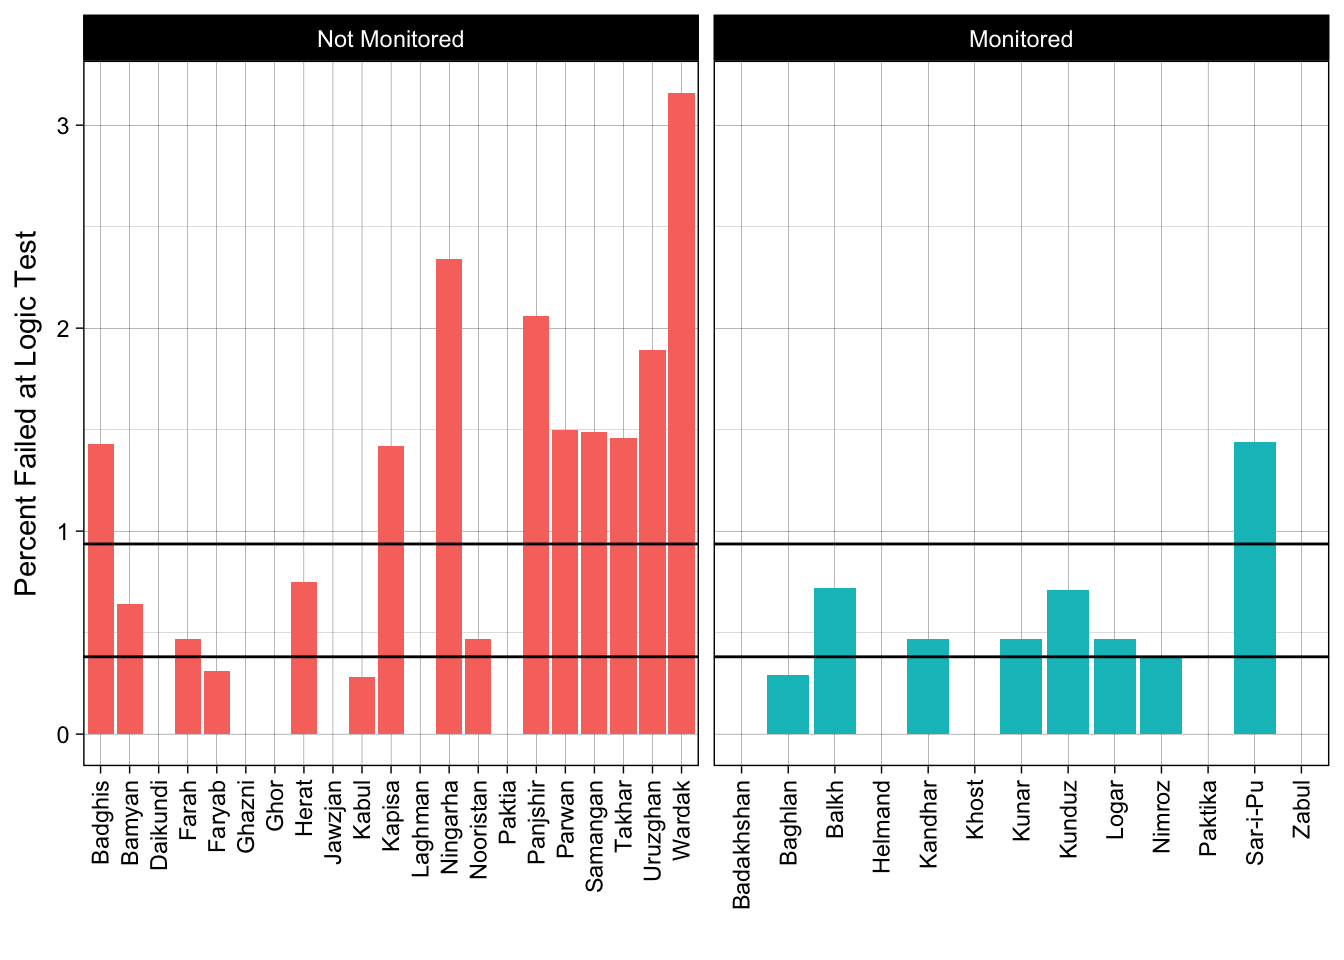
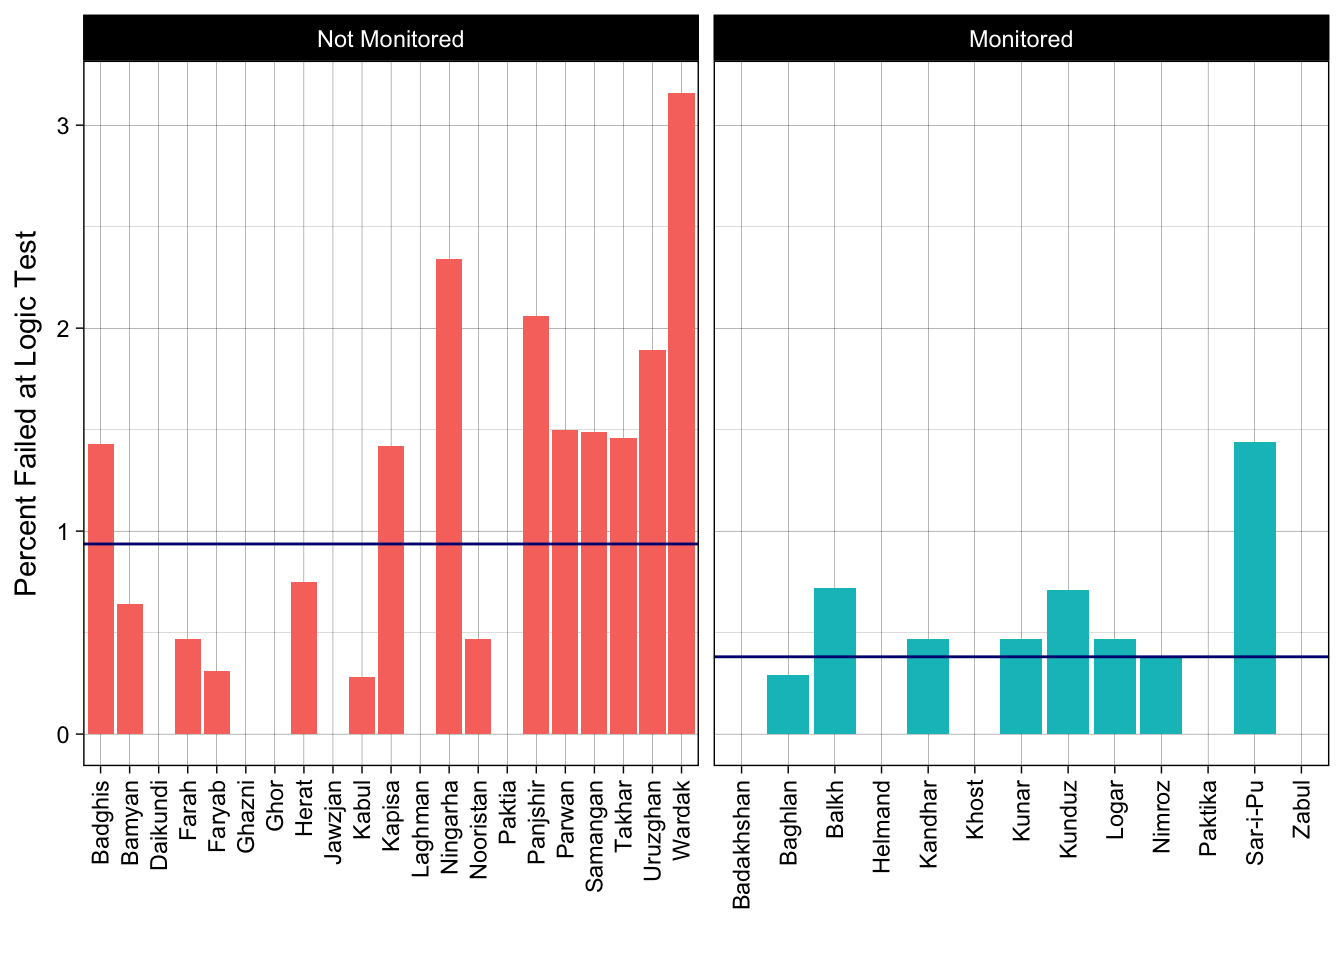
update selection of provinces for SAP monitoring post

Changed region(s): [[0.5312, 0.5625, 0.9688, 0.5938], [0.0625, 0.6562, 0.5, 0.6875], [0.0625, 0.5625, 0.5, 0.5938]]

diff --git a/public/2018/06/10/selection-of-provinces-for-monitoring-in-sap-2018/index.html b/public/2018/06/10/selection-of-provinces-for-monitoring-in-sap-2018/index.html
@@ -59,7 +59,7 @@
 
   <article class="article">
     
-    <span class="article-duration">3 min read</span>
+    <span class="article-duration">4 min read</span>
     
 
     <h1 class="article-title">Selection of Provinces for Monitoring in SAP 2018</h1>
@@ -85,20 +85,14 @@
 </div>
 <div id="analysis" class="section level1">
 <h1>Analysis</h1>
-<pre><code>## Classes &#39;tbl_df&#39;, &#39;tbl&#39; and &#39;data.frame&#39;:    34 obs. of  5 variables:
-##  $ prov.                    : chr  &quot;Badakhshan&quot; &quot;Badghis&quot; &quot;Baghlan&quot; &quot;Balkh&quot; ...
-##  $ failures                 : chr  &quot;0&quot; &quot;3&quot; &quot;1&quot; &quot;3&quot; ...
-##  $ n                        : chr  &quot;216&quot; &quot;210&quot; &quot;341&quot; &quot;415&quot; ...
-##  $ sayara                   : chr  &quot;1&quot; &quot;0&quot; &quot;1&quot; &quot;1&quot; ...
-##  $ proportion of LT failures: chr  &quot;0&quot; &quot;0.014285714&quot; &quot;0.002932551&quot; &quot;0.007228916&quot; ...</code></pre>
-<p>The logic test results are aggregated at the provincial level at this analysis. In addition to the failtures, we look at the provincial sample size and whether the province was monitored or not (by Sayara). The following table shows a snippet of the data used in this section of analysis.</p>
+<p>The logic test results are aggregated at the provincial level for this analysis. In addition to the failtures, we look at the provincial sample size and whether the province was monitored or not (by Sayara). The following table shows part of the data that is used in this analysis.</p>
 <pre class="r"><code>knitr::kable(head(lt))</code></pre>
 <table>
 <thead>
 <tr class="header">
 <th align="left">Provinces</th>
-<th align="left">Logic Test Failures</th>
-<th align="left">Sample Size</th>
+<th align="right">Logic Test Failures</th>
+<th align="right">Sample Size</th>
 <th align="left">Province Monitored</th>
 <th align="right">Percent Failed at Logic Test</th>
 </tr>
@@ -106,51 +100,74 @@
 <tbody>
 <tr class="odd">
 <td align="left">Badakhshan</td>
-<td align="left">0</td>
-<td align="left">216</td>
+<td align="right">0</td>
+<td align="right">216</td>
 <td align="left">Monitored</td>
 <td align="right">0.00</td>
 </tr>
 <tr class="even">
 <td align="left">Badghis</td>
-<td align="left">3</td>
-<td align="left">210</td>
+<td align="right">3</td>
+<td align="right">210</td>
 <td align="left">Not Monitored</td>
 <td align="right">1.43</td>
 </tr>
 <tr class="odd">
 <td align="left">Baghlan</td>
-<td align="left">1</td>
-<td align="left">341</td>
+<td align="right">1</td>
+<td align="right">341</td>
 <td align="left">Monitored</td>
 <td align="right">0.29</td>
 </tr>
 <tr class="even">
 <td align="left">Balkh</td>
-<td align="left">3</td>
-<td align="left">415</td>
+<td align="right">3</td>
+<td align="right">415</td>
 <td align="left">Monitored</td>
 <td align="right">0.72</td>
 </tr>
 <tr class="odd">
 <td align="left">Bamyan</td>
-<td align="left">2</td>
-<td align="left">312</td>
+<td align="right">2</td>
+<td align="right">312</td>
 <td align="left">Not Monitored</td>
 <td align="right">0.64</td>
 </tr>
 <tr class="even">
 <td align="left">Daikundi</td>
-<td align="left">0</td>
-<td align="left">216</td>
+<td align="right">0</td>
+<td align="right">216</td>
 <td align="left">Not Monitored</td>
 <td align="right">0.00</td>
 </tr>
 </tbody>
 </table>
-<pre class="r"><code>failure &lt;- group_by(lt, `Province Monitored`) %&gt;% summarise(mean_failure = mean(`Percent Failed at Logic Test`)) %&gt;% spread(`Province Monitored`, mean_failure)</code></pre>
-<p>Looking at the logic test failure rates by province, and disaggregated by whether the provinces are monitored or not, it becomes evident that the monitored provinces have lower rates on average. It is notworthy that monitored provinces were chosen to be monitored because of their bad performance in the previous wave of the survey. Therefore, it is possible that the imrpovement in data quality as inferred from lower logic test failures are because of the monitoring of the fieldwork.</p>
+<p>Looking at the logic test failure rates by province, and disaggregated by whether the provinces are monitored or not, it becomes evident that the monitored provinces have lower rates on average. It is notworthy that monitored provinces were chosen to be monitored because of their bad performance in the previous wave of the survey. Therefore, it is possible that the imrpovement in data quality as inferred from lower logic test failures are because of the monitoring of the fieldwork. In the following graph, the height of the bars indicates the logic test failure rates by province, and the horizontal line indicates the average logic test failure for all provinces in that facet (i.e. monitored or not monitored provinces).</p>
+<pre class="r"><code># calculate the average failure of provinces by monitoring indicator
+failure &lt;- group_by(lt, `Province Monitored`) %&gt;% summarise(mean_failure = mean(`Percent Failed at Logic Test`))
+
+# plot failed percent for each province using column chart. Color columns by monitoring indicator
+ggplot(lt, aes(x = Provinces, y = `Percent Failed at Logic Test`, fill = `Province Monitored`)) + geom_col() + 
+  
+  # separate columns by monitoring indicator. Apply linedraw theme
+  facet_wrap(~`Province Monitored`, scales = &quot;free_x&quot;) + theme_linedraw() + 
+  
+  # modify theme: direction of x-axis labels and remove x-axis title, and remove legend
+  theme(axis.text.x = element_text(angle = 90, vjust = .5, hjust = 1), legend.position = &quot;none&quot;) + labs(x = &quot;&quot;) + 
+  
+  # add horizontal lines that is average failure of provinces by monitoring indicator
+  geom_hline(data = failure, aes(yintercept = mean_failure), col = &quot;navy&quot;)</code></pre>
 <p><img src="/post/2018-06-10-selection-of-provinces-for-monitoring-in-sap-2018_files/figure-html/unnamed-chunk-4-1.png" width="672" /></p>
+<p>Ordering by logic test failure rates, we also observe provinces which were not monitored come up at the top.</p>
+<pre class="r"><code># keep provinces with logic test failures
+filter(lt, `Percent Failed at Logic Test` &gt; 0) %&gt;% 
+  
+  # reorder provinces based on their failure rates
+  mutate(Provinces = fct_reorder(factor(Provinces), `Percent Failed at Logic Test`)) %&gt;% 
+  
+  # plot horizontal
+  ggplot(aes(Provinces, `Percent Failed at Logic Test`, fill = `Province Monitored`)) + geom_col() + coord_flip() + labs(fill = &quot;&quot;) + theme_linedraw() + theme(legend.position = &quot;top&quot;) + geom_vline(xintercept = 10.5, col = &quot;navy&quot;)</code></pre>
+<p><img src="/post/2018-06-10-selection-of-provinces-for-monitoring-in-sap-2018_files/figure-html/unnamed-chunk-5-1.png" width="672" /></p>
 </div>
 
     </div>
@@ -188,9 +205,6 @@
 
 
     
-<script src="/js/math-code.js"></script>
-<script async src="//cdn.bootcss.com/mathjax/2.7.1/MathJax.js?config=TeX-MML-AM_CHTML"></script>
-
 
     
   </body>

diff --git a/content/post/2018-06-10-selection-of-provinces-for-monitoring-in-sap-2018.html b/content/post/2018-06-10-selection-of-provinces-for-monitoring-in-sap-2018.html
@@ -28,20 +28,14 @@ tags:
 </div>
 <div id="analysis" class="section level1">
 <h1>Analysis</h1>
-<pre><code>## Classes &#39;tbl_df&#39;, &#39;tbl&#39; and &#39;data.frame&#39;:    34 obs. of  5 variables:
-##  $ prov.                    : chr  &quot;Badakhshan&quot; &quot;Badghis&quot; &quot;Baghlan&quot; &quot;Balkh&quot; ...
-##  $ failures                 : chr  &quot;0&quot; &quot;3&quot; &quot;1&quot; &quot;3&quot; ...
-##  $ n                        : chr  &quot;216&quot; &quot;210&quot; &quot;341&quot; &quot;415&quot; ...
-##  $ sayara                   : chr  &quot;1&quot; &quot;0&quot; &quot;1&quot; &quot;1&quot; ...
-##  $ proportion of LT failures: chr  &quot;0&quot; &quot;0.014285714&quot; &quot;0.002932551&quot; &quot;0.007228916&quot; ...</code></pre>
-<p>The logic test results are aggregated at the provincial level at this analysis. In addition to the failtures, we look at the provincial sample size and whether the province was monitored or not (by Sayara). The following table shows a snippet of the data used in this section of analysis.</p>
+<p>The logic test results are aggregated at the provincial level for this analysis. In addition to the failtures, we look at the provincial sample size and whether the province was monitored or not (by Sayara). The following table shows part of the data that is used in this analysis.</p>
 <pre class="r"><code>knitr::kable(head(lt))</code></pre>
 <table>
 <thead>
 <tr class="header">
 <th align="left">Provinces</th>
-<th align="left">Logic Test Failures</th>
-<th align="left">Sample Size</th>
+<th align="right">Logic Test Failures</th>
+<th align="right">Sample Size</th>
 <th align="left">Province Monitored</th>
 <th align="right">Percent Failed at Logic Test</th>
 </tr>
@@ -49,49 +43,72 @@ tags:
 <tbody>
 <tr class="odd">
 <td align="left">Badakhshan</td>
-<td align="left">0</td>
-<td align="left">216</td>
+<td align="right">0</td>
+<td align="right">216</td>
 <td align="left">Monitored</td>
 <td align="right">0.00</td>
 </tr>
 <tr class="even">
 <td align="left">Badghis</td>
-<td align="left">3</td>
-<td align="left">210</td>
+<td align="right">3</td>
+<td align="right">210</td>
 <td align="left">Not Monitored</td>
 <td align="right">1.43</td>
 </tr>
 <tr class="odd">
 <td align="left">Baghlan</td>
-<td align="left">1</td>
-<td align="left">341</td>
+<td align="right">1</td>
+<td align="right">341</td>
 <td align="left">Monitored</td>
 <td align="right">0.29</td>
 </tr>
 <tr class="even">
 <td align="left">Balkh</td>
-<td align="left">3</td>
-<td align="left">415</td>
+<td align="right">3</td>
+<td align="right">415</td>
 <td align="left">Monitored</td>
 <td align="right">0.72</td>
 </tr>
 <tr class="odd">
 <td align="left">Bamyan</td>
-<td align="left">2</td>
-<td align="left">312</td>
+<td align="right">2</td>
+<td align="right">312</td>
 <td align="left">Not Monitored</td>
 <td align="right">0.64</td>
 </tr>
 <tr class="even">
 <td align="left">Daikundi</td>
-<td align="left">0</td>
-<td align="left">216</td>
+<td align="right">0</td>
+<td align="right">216</td>
 <td align="left">Not Monitored</td>
 <td align="right">0.00</td>
 </tr>
 </tbody>
 </table>
-<pre class="r"><code>failure &lt;- group_by(lt, `Province Monitored`) %&gt;% summarise(mean_failure = mean(`Percent Failed at Logic Test`)) %&gt;% spread(`Province Monitored`, mean_failure)</code></pre>
-<p>Looking at the logic test failure rates by province, and disaggregated by whether the provinces are monitored or not, it becomes evident that the monitored provinces have lower rates on average. It is notworthy that monitored provinces were chosen to be monitored because of their bad performance in the previous wave of the survey. Therefore, it is possible that the imrpovement in data quality as inferred from lower logic test failures are because of the monitoring of the fieldwork.</p>
+<p>Looking at the logic test failure rates by province, and disaggregated by whether the provinces are monitored or not, it becomes evident that the monitored provinces have lower rates on average. It is notworthy that monitored provinces were chosen to be monitored because of their bad performance in the previous wave of the survey. Therefore, it is possible that the imrpovement in data quality as inferred from lower logic test failures are because of the monitoring of the fieldwork. In the following graph, the height of the bars indicates the logic test failure rates by province, and the horizontal line indicates the average logic test failure for all provinces in that facet (i.e. monitored or not monitored provinces).</p>
+<pre class="r"><code># calculate the average failure of provinces by monitoring indicator
+failure &lt;- group_by(lt, `Province Monitored`) %&gt;% summarise(mean_failure = mean(`Percent Failed at Logic Test`))
+
+# plot failed percent for each province using column chart. Color columns by monitoring indicator
+ggplot(lt, aes(x = Provinces, y = `Percent Failed at Logic Test`, fill = `Province Monitored`)) + geom_col() + 
+  
+  # separate columns by monitoring indicator. Apply linedraw theme
+  facet_wrap(~`Province Monitored`, scales = &quot;free_x&quot;) + theme_linedraw() + 
+  
+  # modify theme: direction of x-axis labels and remove x-axis title, and remove legend
+  theme(axis.text.x = element_text(angle = 90, vjust = .5, hjust = 1), legend.position = &quot;none&quot;) + labs(x = &quot;&quot;) + 
+  
+  # add horizontal lines that is average failure of provinces by monitoring indicator
+  geom_hline(data = failure, aes(yintercept = mean_failure), col = &quot;navy&quot;)</code></pre>
 <p><img src="/post/2018-06-10-selection-of-provinces-for-monitoring-in-sap-2018_files/figure-html/unnamed-chunk-4-1.png" width="672" /></p>
+<p>Ordering by logic test failure rates, we also observe provinces which were not monitored come up at the top.</p>
+<pre class="r"><code># keep provinces with logic test failures
+filter(lt, `Percent Failed at Logic Test` &gt; 0) %&gt;% 
+  
+  # reorder provinces based on their failure rates
+  mutate(Provinces = fct_reorder(factor(Provinces), `Percent Failed at Logic Test`)) %&gt;% 
+  
+  # plot horizontal
+  ggplot(aes(Provinces, `Percent Failed at Logic Test`, fill = `Province Monitored`)) + geom_col() + coord_flip() + labs(fill = &quot;&quot;) + theme_linedraw() + theme(legend.position = &quot;top&quot;) + geom_vline(xintercept = 10.5, col = &quot;navy&quot;)</code></pre>
+<p><img src="/post/2018-06-10-selection-of-provinces-for-monitoring-in-sap-2018_files/figure-html/unnamed-chunk-5-1.png" width="672" /></p>
 </div>
